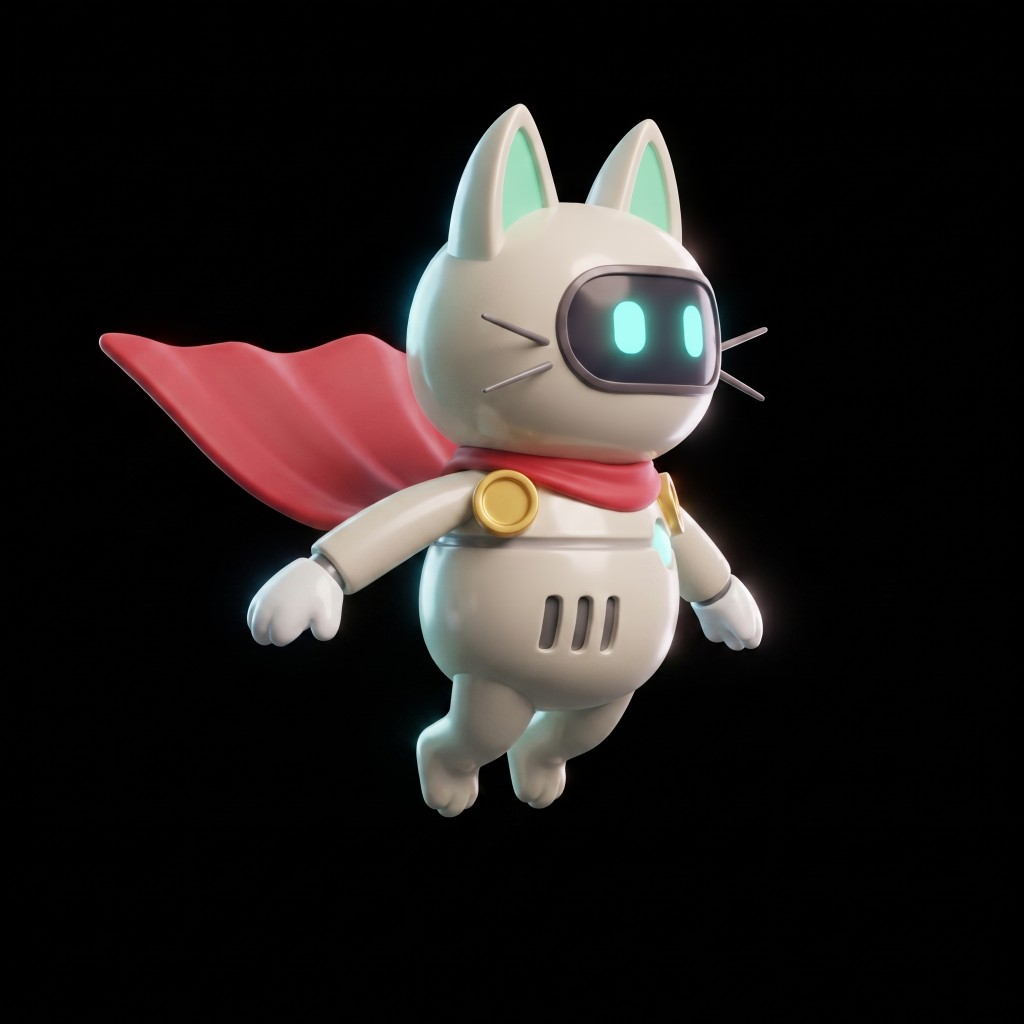
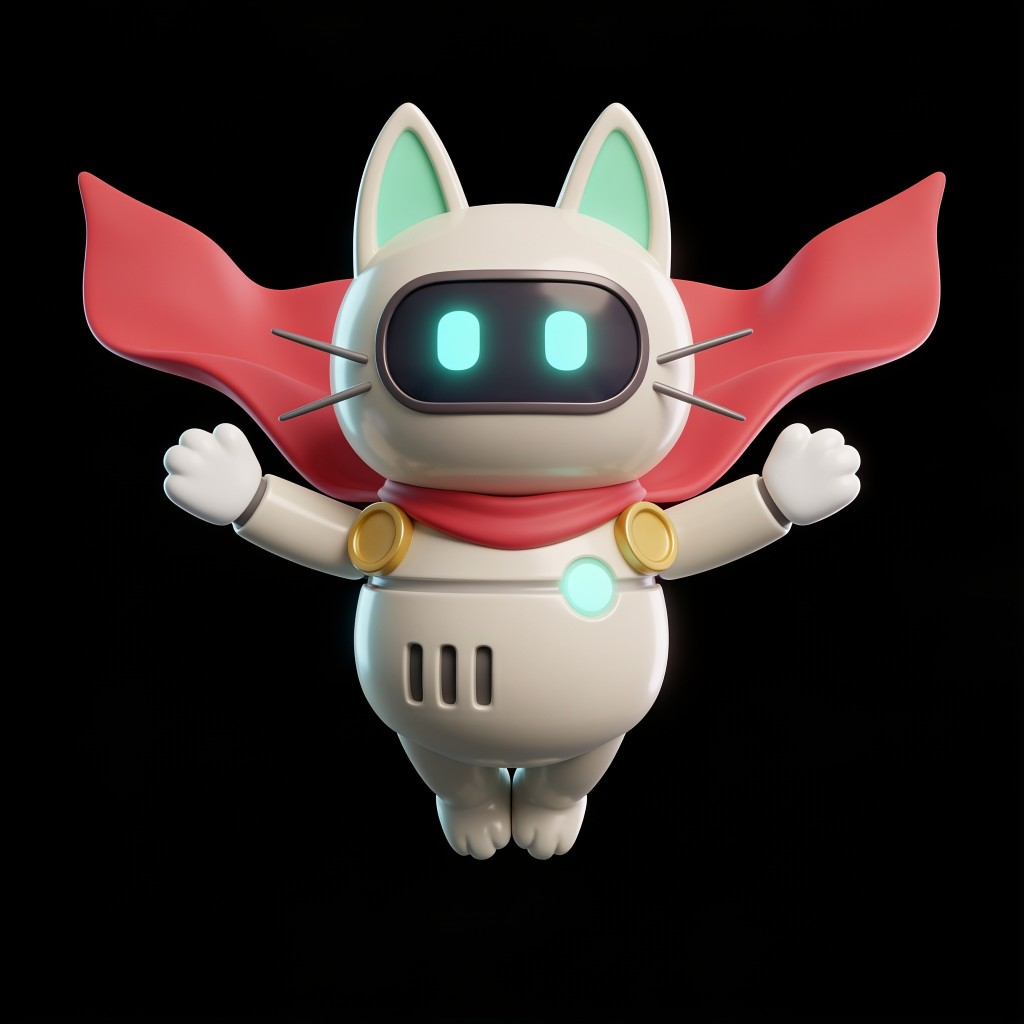
The front-on set lands: she faces the player again, and the swap cost no code
The plates are regenerated FRONT-ON — both eye-lights, both ears, the visor
read — which is the presentation entities.js and hzd99_states.png have always
used and which the side-profile set I fired earlier would have quietly replaced.
assets/characters/hero/states.png is rebuilt from them and the profile plates
are gone from assets/source/hero/.

Swapping 22 plates took ZERO code change: herostates.cjs, re-crush, done. That
was the reason for splitting the sheet-builder from the renderer and it paid for
itself the first time it was tested.

MODEL SWITCH, AND WHY. Every Nano Banana job stopped completing — a fresh
single-image test sat in `waiting` for over half an hour alongside the batch —
while Seedream 4.5 returned in seconds. That is the provider's queue, not this
account and not the prompts, so the set is Seedream. The canon element pinned
her likeness across the model change without a wobble, which is precisely what
an identity lock is for. Noted in the queue: keep a SET on one model, but the
lock means the choice is not precious.

Two faults caught on the way, one of them mine:
  · I dropped "each arm is ONE piece, no elbow hardware" from the negatives when
    I rewrote the briefs for Seedream, and it immediately drew elbow joints and
    knee bands on half the set. The bible says state that negative by name in
    every brief; this is why. Restored, re-fired, gone.
  · Four plates came back with white backdrops, a lit floor, or snow spray, and
[…]

diff --git a/index.html b/index.html
@@ -225,7 +225,7 @@
 })();
 </script>
 
-<script>window.BUILD_ID="mstym67k";window.GAME_LOCK="robo";window.MUS_FILES={"ambient_observing_the_star":"assets/music/ambient_observing_the_star.ogg","epic_combat":"assets/music/epic_combat.ogg","mus_alpha":"assets/music/mus_alpha.m4a","mus_alphatame":"assets/music/mus_alphatame.m4a","mus_archives":"assets/music/mus_archives.m4a","mus_boss":"assets/music/mus_boss.m4a","mus_cache":"assets/music/mus_cache.m4a","mus_conduits":"assets/music/mus_conduits.m4a","mus_ending":"assets/music/mus_ending.m4a","mus_eye":"assets/music/mus_eye.m4a","mus_foundry":"assets/music/mus_foundry.m4a","mus_furnace":"assets/music/mus_furnace.m4a","mus_glaciere":"assets/music/mus_glaciere.m4a","mus_intro":"assets/music/mus_intro.m4a","mus_meadows":"assets/music/mus_meadows.m4a","mus_mother":"assets/music/mus_mother.m4a","mus_nest":"assets/music/mus_nest.m4a","mus_nullfang":"assets/music/mus_nullfang.m4a","mus_prism":"assets/music/mus_prism.m4a","mus_talonhost":"assets/music/mus_talonhost.m4a","mus_title":"assets/music/mus_title.m4a"};window.VID_FILES={"end_atlas":"assets/video/end_atlas.mp4","end_brood":"assets/video/end_brood.mp4","end_close":"assets/video/end_close.mp4","end_folk":"assets/video/end_folk.mp4","end_glitch":"assets/video/end_glitch.mp4","end_mother":"assets/video/end_mother.mp4","end_open":"assets/video/end_open.mp4","end_prism":"assets/video/end_prism.mp4","end_zero":"assets/video/end_zero.mp4","intro1":"assets/video/intro1.mp4","intro2":"assets/video/intro2.mp4","intro3":"assets/video/intro3.mp4","intro4":"assets/video/intro4.mp4","intro5":"assets/video/intro5.mp4","intro6":"assets/video/intro6.mp4","intro7":"assets/video/intro7.mp4","intro8":"assets/video/intro8.mp4","purify_atlas":"assets/video/purify_atlas.mp4","purify_brood":"assets/video/purify_brood.mp4","purify_glitch":"assets/video/purify_glitch.mp4","purify_prism":"assets/video/purify_prism.mp4","purify_zero":"assets/video/purify_zero.mp4","sword_gift":"assets/video/sword_gift.mp4"};window.VID_ALT={"end_atlas":"assets/video/end_atlas.webm","end_brood":"assets/video/end_brood.webm","end_close":"assets/video/end_close.webm","end_folk":"assets/video/end_folk.webm","end_glitch":"assets/video/end_glitch.webm","end_mother":"assets/video/end_mother.webm","end_open":"assets/video/end_open.webm","end_prism":"assets/video/end_prism.webm","end_zero":"assets/video/end_zero.webm","intro1":"assets/video/intro1.webm","intro2":"assets/video/intro2.webm","intro3":"assets/video/intro3.webm","intro4":"assets/video/intro4.webm","intro5":"assets/video/intro5.webm","intro6":"assets/video/intro6.webm","intro7":"assets/video/intro7.webm","intro8":"assets/video/intro8.webm","purify_atlas":"assets/video/purify_atlas.webm","purify_brood":"assets/video/purify_brood.webm","purify_glitch":"assets/video/purify_glitch.webm","purify_prism":"assets/video/purify_prism.webm","purify_zero":"assets/video/purify_zero.webm","sword_gift":"assets/video/sword_gift.webm"};window.VOX_FILES={"lumen0":"assets/vox/lumen0.ogg","lumen1":"assets/vox/lumen1.ogg","lumen2":"assets/vox/lumen2.ogg","mono0":"assets/vox/mono0.ogg","mono1":"assets/vox/mono1.ogg","mono2":"assets/vox/mono2.ogg","patch0":"assets/vox/patch0.ogg","patch1":"assets/vox/patch1.ogg","patch2":"assets/vox/patch2.ogg","ratchet0":"assets/vox/ratchet0.ogg","ratchet1":"assets/vox/ratchet1.ogg","sage0":"assets/vox/sage0.ogg","sage1":"assets/vox/sage1.ogg","sage2":"assets/vox/sage2.ogg","servo0":"assets/vox/servo0.ogg","servo1":"assets/vox/servo1.ogg","servo2":"assets/vox/servo2.ogg","servo3":"assets/vox/servo3.ogg"}</script>
+<script>window.BUILD_ID="mstz9rue";window.GAME_LOCK="robo";window.MUS_FILES={"ambient_observing_the_star":"assets/music/ambient_observing_the_star.ogg","epic_combat":"assets/music/epic_combat.ogg","mus_alpha":"assets/music/mus_alpha.m4a","mus_alphatame":"assets/music/mus_alphatame.m4a","mus_archives":"assets/music/mus_archives.m4a","mus_boss":"assets/music/mus_boss.m4a","mus_cache":"assets/music/mus_cache.m4a","mus_conduits":"assets/music/mus_conduits.m4a","mus_ending":"assets/music/mus_ending.m4a","mus_eye":"assets/music/mus_eye.m4a","mus_foundry":"assets/music/mus_foundry.m4a","mus_furnace":"assets/music/mus_furnace.m4a","mus_glaciere":"assets/music/mus_glaciere.m4a","mus_intro":"assets/music/mus_intro.m4a","mus_meadows":"assets/music/mus_meadows.m4a","mus_mother":"assets/music/mus_mother.m4a","mus_nest":"assets/music/mus_nest.m4a","mus_nullfang":"assets/music/mus_nullfang.m4a","mus_prism":"assets/music/mus_prism.m4a","mus_talonhost":"assets/music/mus_talonhost.m4a","mus_title":"assets/music/mus_title.m4a"};window.VID_FILES={"end_atlas":"assets/video/end_atlas.mp4","end_brood":"assets/video/end_brood.mp4","end_close":"assets/video/end_close.mp4","end_folk":"assets/video/end_folk.mp4","end_glitch":"assets/video/end_glitch.mp4","end_mother":"assets/video/end_mother.mp4","end_open":"assets/video/end_open.mp4","end_prism":"assets/video/end_prism.mp4","end_zero":"assets/video/end_zero.mp4","intro1":"assets/video/intro1.mp4","intro2":"assets/video/intro2.mp4","intro3":"assets/video/intro3.mp4","intro4":"assets/video/intro4.mp4","intro5":"assets/video/intro5.mp4","intro6":"assets/video/intro6.mp4","intro7":"assets/video/intro7.mp4","intro8":"assets/video/intro8.mp4","purify_atlas":"assets/video/purify_atlas.mp4","purify_brood":"assets/video/purify_brood.mp4","purify_glitch":"assets/video/purify_glitch.mp4","purify_prism":"assets/video/purify_prism.mp4","purify_zero":"assets/video/purify_zero.mp4","sword_gift":"assets/video/sword_gift.mp4"};window.VID_ALT={"end_atlas":"assets/video/end_atlas.webm","end_brood":"assets/video/end_brood.webm","end_close":"assets/video/end_close.webm","end_folk":"assets/video/end_folk.webm","end_glitch":"assets/video/end_glitch.webm","end_mother":"assets/video/end_mother.webm","end_open":"assets/video/end_open.webm","end_prism":"assets/video/end_prism.webm","end_zero":"assets/video/end_zero.webm","intro1":"assets/video/intro1.webm","intro2":"assets/video/intro2.webm","intro3":"assets/video/intro3.webm","intro4":"assets/video/intro4.webm","intro5":"assets/video/intro5.webm","intro6":"assets/video/intro6.webm","intro7":"assets/video/intro7.webm","intro8":"assets/video/intro8.webm","purify_atlas":"assets/video/purify_atlas.webm","purify_brood":"assets/video/purify_brood.webm","purify_glitch":"assets/video/purify_glitch.webm","purify_prism":"assets/video/purify_prism.webm","purify_zero":"assets/video/purify_zero.webm","sword_gift":"assets/video/sword_gift.webm"};window.VOX_FILES={"lumen0":"assets/vox/lumen0.ogg","lumen1":"assets/vox/lumen1.ogg","lumen2":"assets/vox/lumen2.ogg","mono0":"assets/vox/mono0.ogg","mono1":"assets/vox/mono1.ogg","mono2":"assets/vox/mono2.ogg","patch0":"assets/vox/patch0.ogg","patch1":"assets/vox/patch1.ogg","patch2":"assets/vox/patch2.ogg","ratchet0":"assets/vox/ratchet0.ogg","ratchet1":"assets/vox/ratchet1.ogg","sage0":"assets/vox/sage0.ogg","sage1":"assets/vox/sage1.ogg","sage2":"assets/vox/sage2.ogg","servo0":"assets/vox/servo0.ogg","servo1":"assets/vox/servo1.ogg","servo2":"assets/vox/servo2.ogg","servo3":"assets/vox/servo3.ogg"}</script>
 <script>
 // THE FIRST BOSS — virus-infected robot beast, and its whelps.
 //

diff --git a/odyssey.html b/odyssey.html
@@ -225,7 +225,7 @@
 })();
 </script>
 
-<script>window.BUILD_ID="mstym67k";window.GAME_LOCK="hero";window.MUS_FILES={"ambient_observing_the_star":"assets/music/ambient_observing_the_star.ogg","epic_combat":"assets/music/epic_combat.ogg","mus_alpha":"assets/music/mus_alpha.m4a","mus_alphatame":"assets/music/mus_alphatame.m4a","mus_archives":"assets/music/mus_archives.m4a","mus_boss":"assets/music/mus_boss.m4a","mus_cache":"assets/music/mus_cache.m4a","mus_conduits":"assets/music/mus_conduits.m4a","mus_ending":"assets/music/mus_ending.m4a","mus_eye":"assets/music/mus_eye.m4a","mus_foundry":"assets/music/mus_foundry.m4a","mus_furnace":"assets/music/mus_furnace.m4a","mus_glaciere":"assets/music/mus_glaciere.m4a","mus_intro":"assets/music/mus_intro.m4a","mus_meadows":"assets/music/mus_meadows.m4a","mus_mother":"assets/music/mus_mother.m4a","mus_nest":"assets/music/mus_nest.m4a","mus_nullfang":"assets/music/mus_nullfang.m4a","mus_prism":"assets/music/mus_prism.m4a","mus_talonhost":"assets/music/mus_talonhost.m4a","mus_title":"assets/music/mus_title.m4a"};window.VID_FILES={"end_atlas":"assets/video/end_atlas.mp4","end_brood":"assets/video/end_brood.mp4","end_close":"assets/video/end_close.mp4","end_folk":"assets/video/end_folk.mp4","end_glitch":"assets/video/end_glitch.mp4","end_mother":"assets/video/end_mother.mp4","end_open":"assets/video/end_open.mp4","end_prism":"assets/video/end_prism.mp4","end_zero":"assets/video/end_zero.mp4","intro1":"assets/video/intro1.mp4","intro2":"assets/video/intro2.mp4","intro3":"assets/video/intro3.mp4","intro4":"assets/video/intro4.mp4","intro5":"assets/video/intro5.mp4","intro6":"assets/video/intro6.mp4","intro7":"assets/video/intro7.mp4","intro8":"assets/video/intro8.mp4","purify_atlas":"assets/video/purify_atlas.mp4","purify_brood":"assets/video/purify_brood.mp4","purify_glitch":"assets/video/purify_glitch.mp4","purify_prism":"assets/video/purify_prism.mp4","purify_zero":"assets/video/purify_zero.mp4","sword_gift":"assets/video/sword_gift.mp4"};window.VID_ALT={"end_atlas":"assets/video/end_atlas.webm","end_brood":"assets/video/end_brood.webm","end_close":"assets/video/end_close.webm","end_folk":"assets/video/end_folk.webm","end_glitch":"assets/video/end_glitch.webm","end_mother":"assets/video/end_mother.webm","end_open":"assets/video/end_open.webm","end_prism":"assets/video/end_prism.webm","end_zero":"assets/video/end_zero.webm","intro1":"assets/video/intro1.webm","intro2":"assets/video/intro2.webm","intro3":"assets/video/intro3.webm","intro4":"assets/video/intro4.webm","intro5":"assets/video/intro5.webm","intro6":"assets/video/intro6.webm","intro7":"assets/video/intro7.webm","intro8":"assets/video/intro8.webm","purify_atlas":"assets/video/purify_atlas.webm","purify_brood":"assets/video/purify_brood.webm","purify_glitch":"assets/video/purify_glitch.webm","purify_prism":"assets/video/purify_prism.webm","purify_zero":"assets/video/purify_zero.webm","sword_gift":"assets/video/sword_gift.webm"};window.VOX_FILES={"lumen0":"assets/vox/lumen0.ogg","lumen1":"assets/vox/lumen1.ogg","lumen2":"assets/vox/lumen2.ogg","mono0":"assets/vox/mono0.ogg","mono1":"assets/vox/mono1.ogg","mono2":"assets/vox/mono2.ogg","patch0":"assets/vox/patch0.ogg","patch1":"assets/vox/patch1.ogg","patch2":"assets/vox/patch2.ogg","ratchet0":"assets/vox/ratchet0.ogg","ratchet1":"assets/vox/ratchet1.ogg","sage0":"assets/vox/sage0.ogg","sage1":"assets/vox/sage1.ogg","sage2":"assets/vox/sage2.ogg","servo0":"assets/vox/servo0.ogg","servo1":"assets/vox/servo1.ogg","servo2":"assets/vox/servo2.ogg","servo3":"assets/vox/servo3.ogg"}</script>
+<script>window.BUILD_ID="mstz9rue";window.GAME_LOCK="hero";window.MUS_FILES={"ambient_observing_the_star":"assets/music/ambient_observing_the_star.ogg","epic_combat":"assets/music/epic_combat.ogg","mus_alpha":"assets/music/mus_alpha.m4a","mus_alphatame":"assets/music/mus_alphatame.m4a","mus_archives":"assets/music/mus_archives.m4a","mus_boss":"assets/music/mus_boss.m4a","mus_cache":"assets/music/mus_cache.m4a","mus_conduits":"assets/music/mus_conduits.m4a","mus_ending":"assets/music/mus_ending.m4a","mus_eye":"assets/music/mus_eye.m4a","mus_foundry":"assets/music/mus_foundry.m4a","mus_furnace":"assets/music/mus_furnace.m4a","mus_glaciere":"assets/music/mus_glaciere.m4a","mus_intro":"assets/music/mus_intro.m4a","mus_meadows":"assets/music/mus_meadows.m4a","mus_mother":"assets/music/mus_mother.m4a","mus_nest":"assets/music/mus_nest.m4a","mus_nullfang":"assets/music/mus_nullfang.m4a","mus_prism":"assets/music/mus_prism.m4a","mus_talonhost":"assets/music/mus_talonhost.m4a","mus_title":"assets/music/mus_title.m4a"};window.VID_FILES={"end_atlas":"assets/video/end_atlas.mp4","end_brood":"assets/video/end_brood.mp4","end_close":"assets/video/end_close.mp4","end_folk":"assets/video/end_folk.mp4","end_glitch":"assets/video/end_glitch.mp4","end_mother":"assets/video/end_mother.mp4","end_open":"assets/video/end_open.mp4","end_prism":"assets/video/end_prism.mp4","end_zero":"assets/video/end_zero.mp4","intro1":"assets/video/intro1.mp4","intro2":"assets/video/intro2.mp4","intro3":"assets/video/intro3.mp4","intro4":"assets/video/intro4.mp4","intro5":"assets/video/intro5.mp4","intro6":"assets/video/intro6.mp4","intro7":"assets/video/intro7.mp4","intro8":"assets/video/intro8.mp4","purify_atlas":"assets/video/purify_atlas.mp4","purify_brood":"assets/video/purify_brood.mp4","purify_glitch":"assets/video/purify_glitch.mp4","purify_prism":"assets/video/purify_prism.mp4","purify_zero":"assets/video/purify_zero.mp4","sword_gift":"assets/video/sword_gift.mp4"};window.VID_ALT={"end_atlas":"assets/video/end_atlas.webm","end_brood":"assets/video/end_brood.webm","end_close":"assets/video/end_close.webm","end_folk":"assets/video/end_folk.webm","end_glitch":"assets/video/end_glitch.webm","end_mother":"assets/video/end_mother.webm","end_open":"assets/video/end_open.webm","end_prism":"assets/video/end_prism.webm","end_zero":"assets/video/end_zero.webm","intro1":"assets/video/intro1.webm","intro2":"assets/video/intro2.webm","intro3":"assets/video/intro3.webm","intro4":"assets/video/intro4.webm","intro5":"assets/video/intro5.webm","intro6":"assets/video/intro6.webm","intro7":"assets/video/intro7.webm","intro8":"assets/video/intro8.webm","purify_atlas":"assets/video/purify_atlas.webm","purify_brood":"assets/video/purify_brood.webm","purify_glitch":"assets/video/purify_glitch.webm","purify_prism":"assets/video/purify_prism.webm","purify_zero":"assets/video/purify_zero.webm","sword_gift":"assets/video/sword_gift.webm"};window.VOX_FILES={"lumen0":"assets/vox/lumen0.ogg","lumen1":"assets/vox/lumen1.ogg","lumen2":"assets/vox/lumen2.ogg","mono0":"assets/vox/mono0.ogg","mono1":"assets/vox/mono1.ogg","mono2":"assets/vox/mono2.ogg","patch0":"assets/vox/patch0.ogg","patch1":"assets/vox/patch1.ogg","patch2":"assets/vox/patch2.ogg","ratchet0":"assets/vox/ratchet0.ogg","ratchet1":"assets/vox/ratchet1.ogg","sage0":"assets/vox/sage0.ogg","sage1":"assets/vox/sage1.ogg","sage2":"assets/vox/sage2.ogg","servo0":"assets/vox/servo0.ogg","servo1":"assets/vox/servo1.ogg","servo2":"assets/vox/servo2.ogg","servo3":"assets/vox/servo3.ogg"}</script>
 <script>
 // THE FIRST BOSS — virus-infected robot beast, and its whelps.
 //

diff --git a/docs/ART_QUEUE.md b/docs/ART_QUEUE.md
@@ -147,13 +147,19 @@ against the procedural rig it replaced — run 0.198 (was 0.569), air 0.613 (was
 0.858), charge 0.259 (was 0.441). Lower IoU is the §3.3 law being obeyed harder:
 these are genuinely different drawings per state, not one drawing re-posed.
 
-**PROVISIONAL: the sheet currently on disk is the SIDE-PROFILE set.** The
-front-on regeneration was submitted and sat in the generator's queue longer than
-the session lasted. The renderer does not care which way she faces — swapping is
-`node tools/herostates.cjs <dir> <out>` and re-crushing to
-`assets/characters/hero/states.png`, no code change — so finish it by dropping
-the front-on plates into the states directory and rebuilding. Until then she
-reads side-on in game, which is a look nobody signed off.
+**RESOLVED: the sheet on disk is now the FRONT-ON set**, which is the
+presentation the game has always used — both eye-lights, both ears, the visor
+read. The profile set it replaced is gone from `hero/`. Swapping took no code
+change at all, which is the point of the split: `node tools/herostates.cjs <dir>
+<out>`, re-crush to `assets/characters/hero/states.png`, done.
+
+**Model note.** The front-on set is **Seedream 4.5**, not Nano Banana Pro. Every
+Nano Banana job — a fresh single-image test included — sat in `waiting` for over
+half an hour while Seedream ran in seconds, so the jam was the provider's and
+model-specific. The canon element pins identity across models, which is exactly
+what it is for; the swap cost nothing in likeness. If Nano Banana is healthy
+when you next fire, either is fine — keep a whole SET on one model rather than
+mixing within a sheet.
 
 ### THE PRESENTATION DECISION BEHIND THAT — READ BEFORE #79/#80/#81
 
